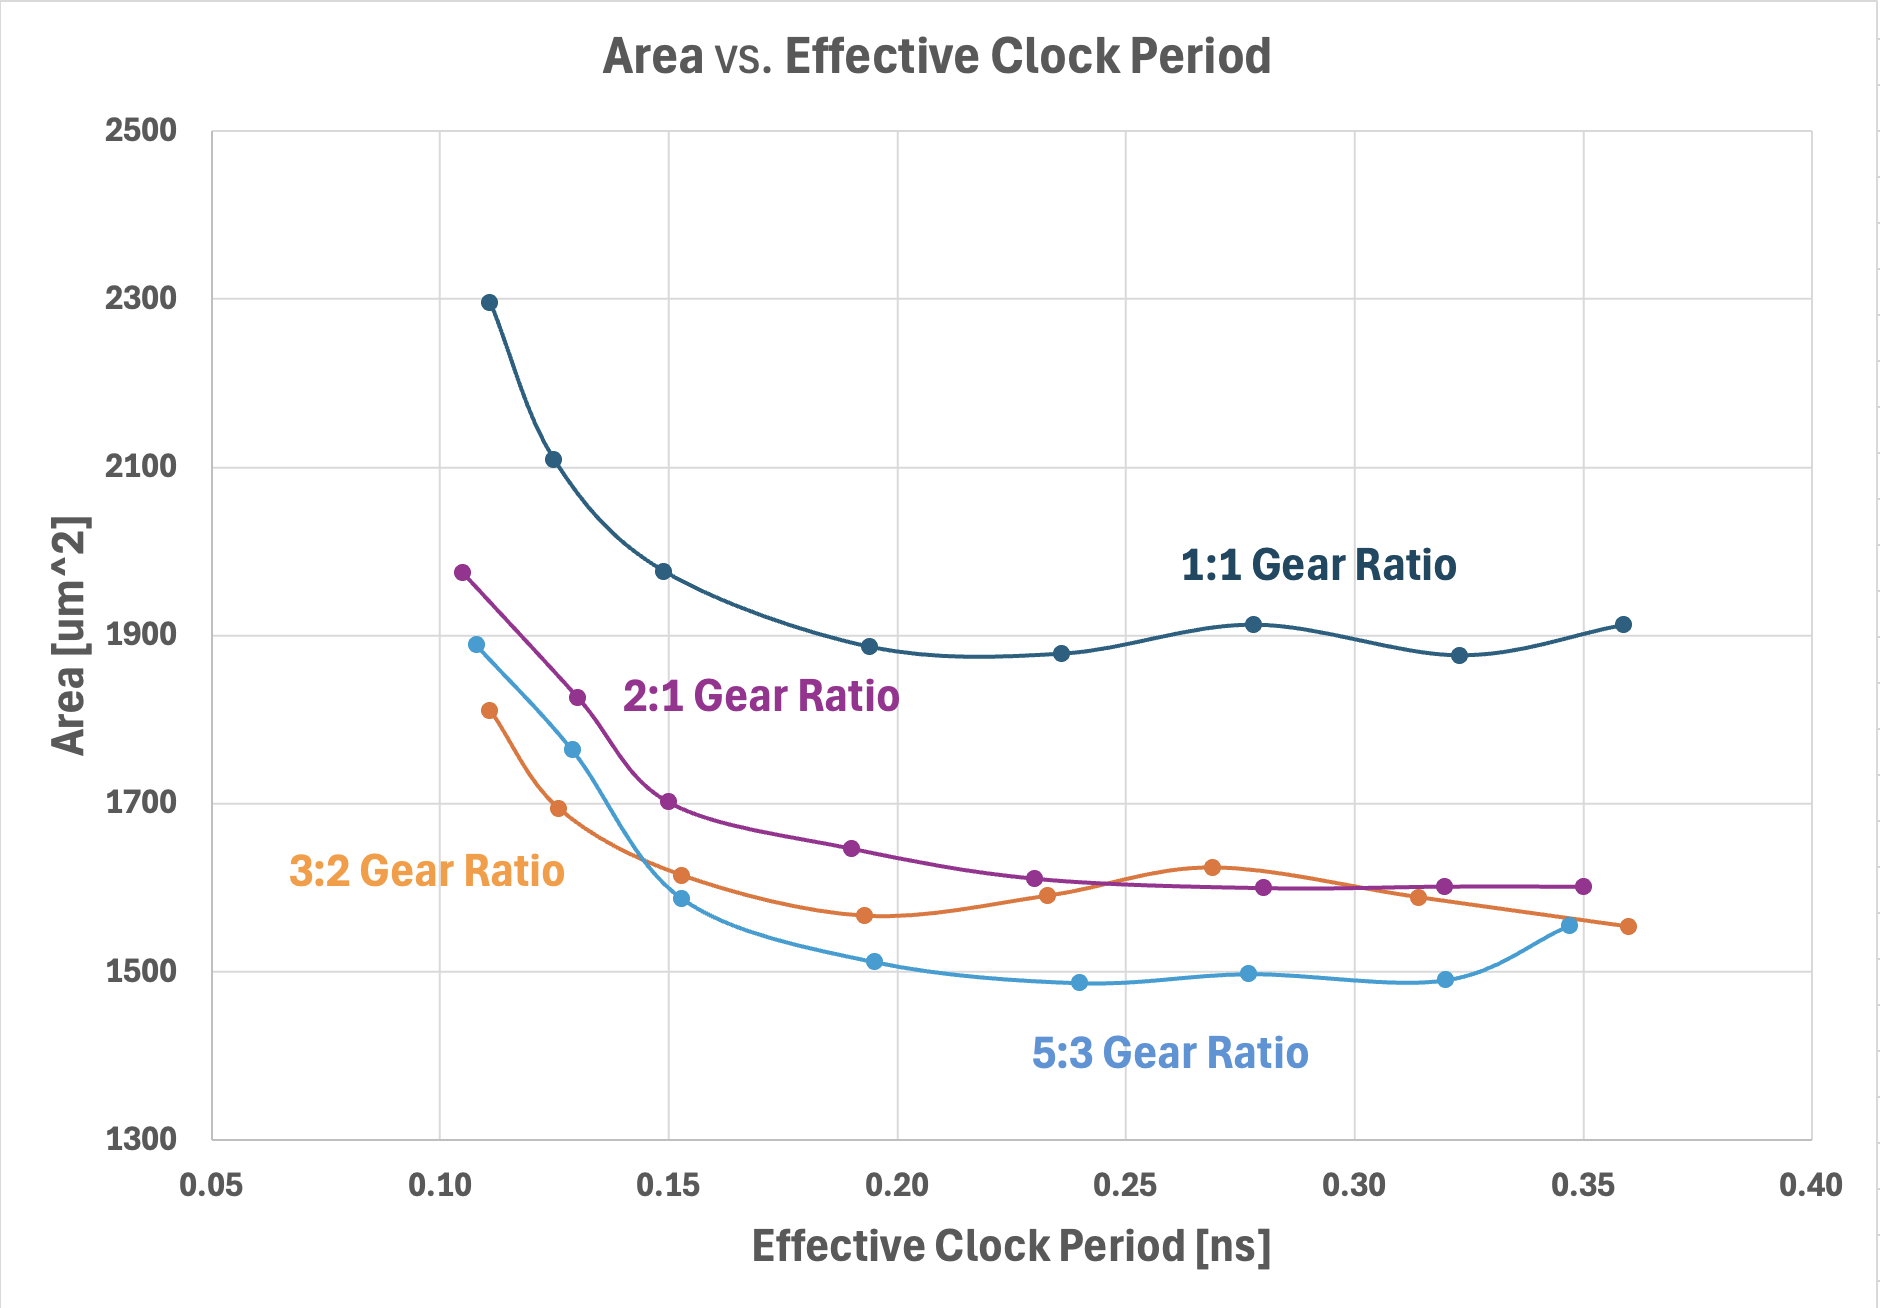
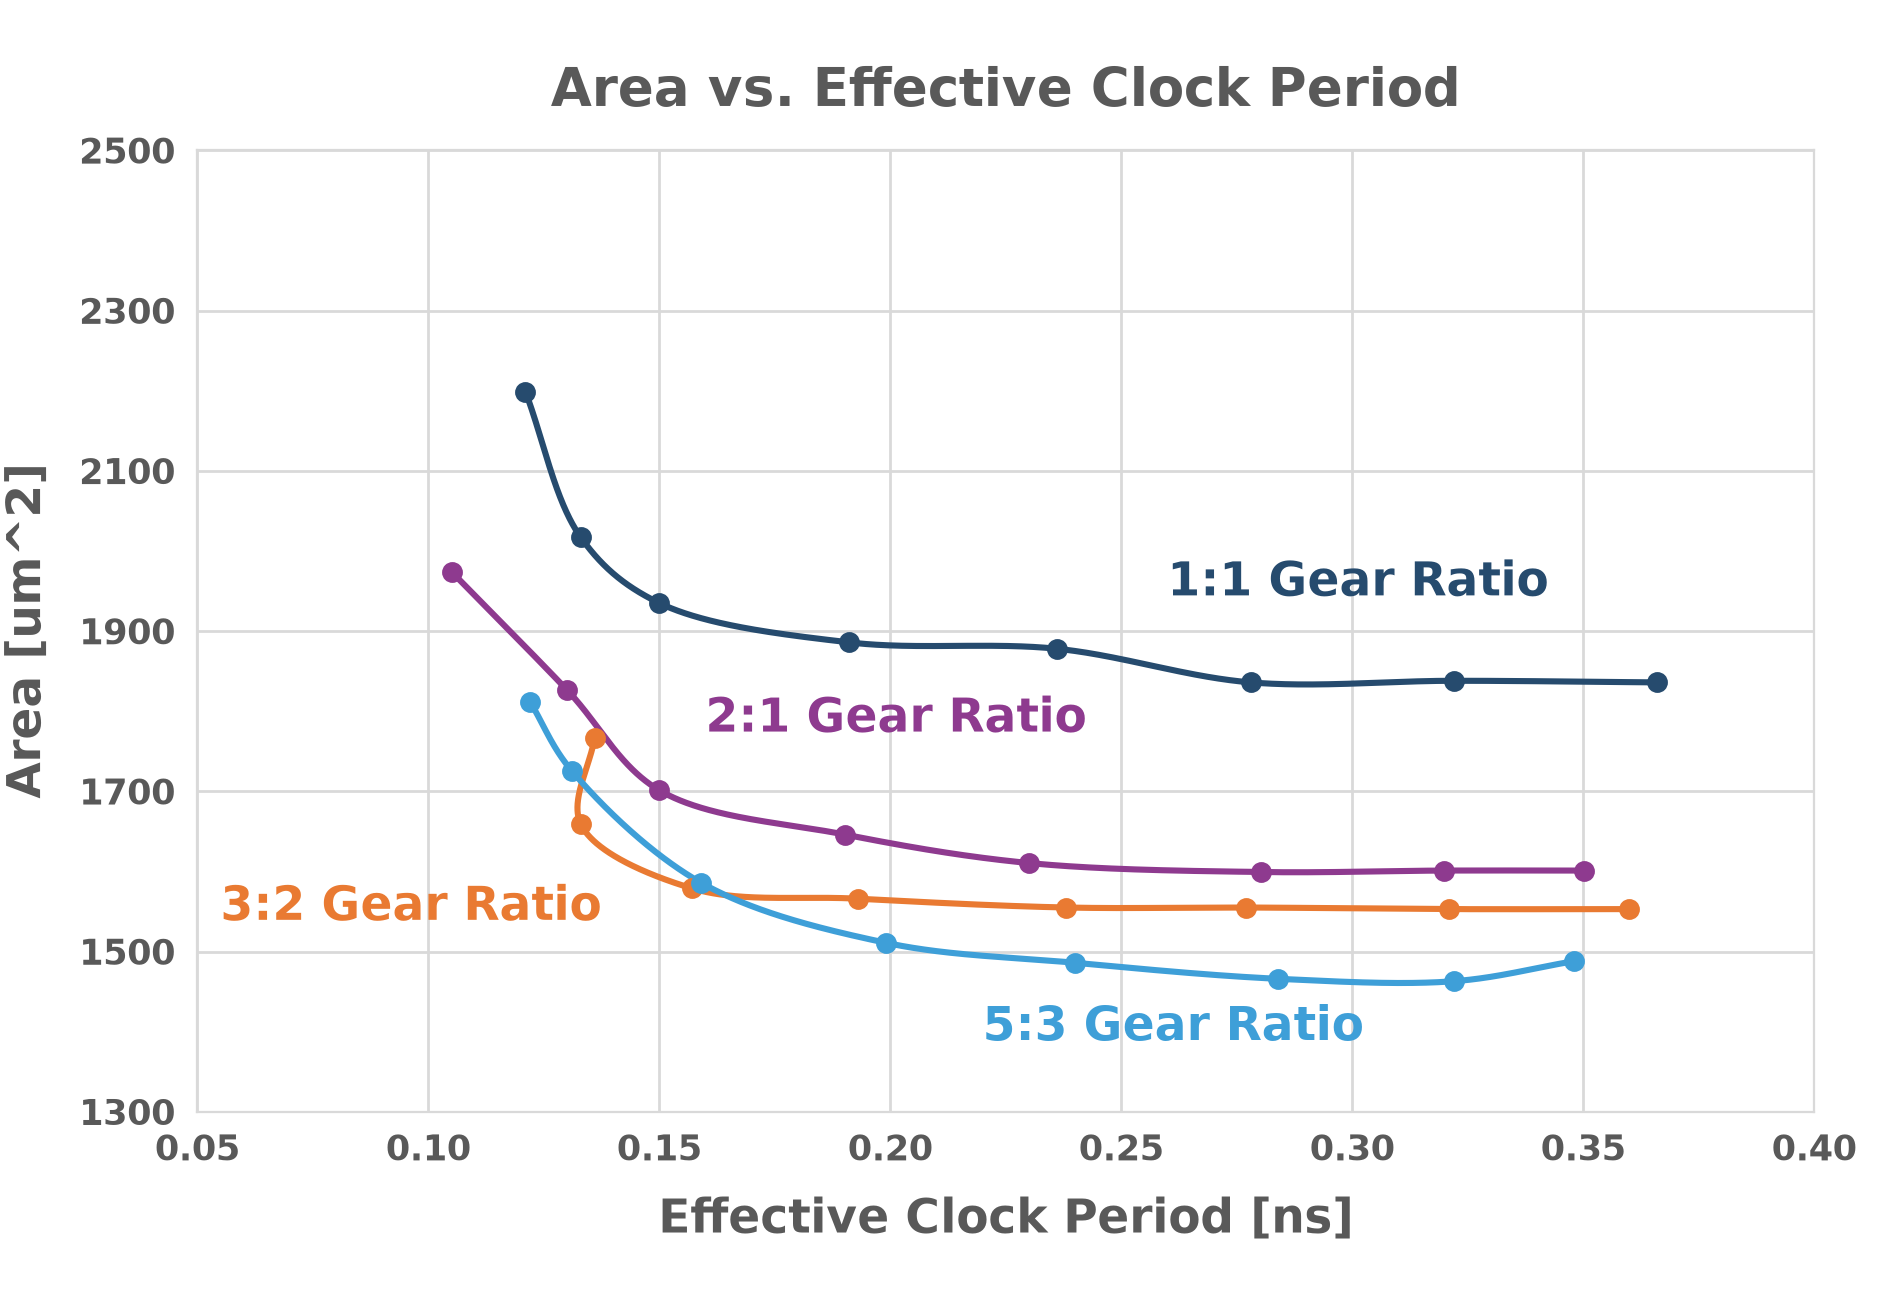
Align with final submission

diff --git a/evaluation/README.md b/evaluation/README.md
@@ -129,56 +129,56 @@ These extend the paper's Fig. 19 with the 2:1 GR series added, generated from
 
 | Metric | 0.10 | 0.12 | 0.15 | 0.20 | 0.25 | 0.30 | 0.35 | 0.40 |
 |---|---:|---:|---:|---:|---:|---:|---:|---:|
-| #Insts | 59472 | 46995 | 44790 | 43672 | 43215 | 43045 | 42815 | 42685 |
-| Wirelength (μm) | 91637 | 83180 | 81885 | 72199 | 69993 | 66639 | 65531 | 65480 |
-| Total Power (mW) | 29.5 | 23.0 | 18.0 | 13.0 | 10.4 | 8.7 | 7.5 | 6.7 |
-| Worst Negative Slack (ns) | -0.011 | -0.005 | 0.001 | 0.006 | 0.014 | 0.022 | 0.027 | 0.041 |
-| Effective CLKP (ns) | 0.111 | 0.125 | 0.149 | 0.194 | 0.236 | 0.278 | 0.323 | 0.359 |
-| Area (μm²) | 2296 | 2108 | 1976 | 1886 | 1878 | 1912 | 1876 | 1912 |
+| #Insts | 60255 | 47718 | 44714 | 43774 | 43215 | 42965 | 42850 | 42700 |
+| Wirelength (μm) | 92560 | 87659 | 82759 | 73234 | 69993 | 70875 | 68578 | 69116 |
+| Total Power (mW) | 29.7 | 24.6 | 18.2 | 13.0 | 10.3 | 8.9 | 7.6 | 6.7 |
+| Worst Negative Slack (ns) | -0.021 | -0.013 | 0.000 | 0.009 | 0.014 | 0.022 | 0.028 | 0.034 |
+| Effective CLKP (ns) | 0.121 | 0.133 | 0.150 | 0.191 | 0.236 | 0.278 | 0.322 | 0.366 |
+| Area (μm²) | 2199 | 2017 | 1935 | 1886 | 1878 | 1836 | 1838 | 1836 |
 
 ### 3:2 GR — 0-offset Only
 
 | Metric | 0.10 | 0.12 | 0.15 | 0.20 | 0.25 | 0.30 | 0.35 | 0.40 |
 |---|---:|---:|---:|---:|---:|---:|---:|---:|
-| #Insts | 57919 | 54403 | 52951 | 47918 | 46307 | 45677 | 45319 | 45253 |
-| Wirelength (μm) | 73759 | 71986 | 71602 | 72681 | 65940 | 63185 | 63707 | 62488 |
-| Total Power (mW) | 28.4 | 23.3 | 18.4 | 13.7 | 10.8 | 9.0 | 7.7 | 6.8 |
-| Worst Negative Slack (ns) | -0.008 | -0.004 | -0.001 | 0.001 | 0.004 | 0.014 | 0.019 | 0.030 |
-| Effective CLKP (ns) | 0.108 | 0.124 | 0.151 | 0.199 | 0.246 | 0.286 | 0.331 | 0.370 |
-| Area (μm²) | 1898 | 1826 | 1777 | 1726 | 1680 | 1703 | 1659 | 1690 |
+| #Insts | 57889 | 54403 | 52951 | 47918 | 46307 | 45750 | 45319 | 45376 |
+| Wirelength (μm) | 74528 | 71986 | 71602 | 72681 | 65940 | 64729 | 63707 | 64154 |
+| Total Power (mW) | 28.3 | 23.3 | 18.4 | 13.7 | 10.8 | 9.1 | 7.7 | 6.9 |
+| Worst Negative Slack (ns) | -0.006 | -0.004 | -0.001 | 0.001 | 0.004 | 0.014 | 0.019 | 0.031 |
+| Effective CLKP (ns) | 0.106 | 0.124 | 0.151 | 0.199 | 0.246 | 0.286 | 0.331 | 0.369 |
+| Area (μm²) | 1860 | 1826 | 1777 | 1726 | 1680 | 1669 | 1659 | 1656 |
 
 ### 3:2 GR — Mixed-offset
 
 | Metric | 0.10 | 0.12 | 0.15 | 0.20 | 0.25 | 0.30 | 0.35 | 0.40 |
 |---|---:|---:|---:|---:|---:|---:|---:|---:|
-| #Insts | 57429 | 44080 | 42490 | 41543 | 41216 | 41144 | 41112 | 41087 |
-| Wirelength (μm) | 73338 | 77240 | 65216 | 59613 | 55371 | 54463 | 56735 | 55264 |
-| Total Power (mW) | 29.1 | 23.3 | 17.4 | 12.5 | 10.0 | 8.4 | 7.3 | 6.5 |
-| Worst Negative Slack (ns) | -0.011 | -0.006 | -0.003 | 0.007 | 0.017 | 0.031 | 0.036 | 0.040 |
-| Effective CLKP (ns) | 0.111 | 0.126 | 0.153 | 0.193 | 0.233 | 0.269 | 0.314 | 0.360 |
-| Area (μm²) | 1810 | 1694 | 1614 | 1566 | 1590 | 1624 | 1588 | 1553 |
+| #Insts | 57155 | 44195 | 42117 | 41543 | 41207 | 41103 | 41106 | 41087 |
+| Wirelength (μm) | 76773 | 79973 | 66652 | 59613 | 56396 | 55492 | 57627 | 55264 |
+| Total Power (mW) | 30.6 | 24.2 | 18.0 | 12.5 | 10.3 | 8.5 | 7.4 | 6.5 |
+| Worst Negative Slack (ns) | -0.036 | -0.013 | -0.007 | 0.007 | 0.012 | 0.023 | 0.029 | 0.040 |
+| Effective CLKP (ns) | 0.136 | 0.133 | 0.157 | 0.193 | 0.238 | 0.277 | 0.321 | 0.360 |
+| Area (μm²) | 1767 | 1659 | 1579 | 1566 | 1555 | 1555 | 1553 | 1553 |
 
 ### 5:3 GR — 0-offset Only
 
 | Metric | 0.10 | 0.12 | 0.15 | 0.20 | 0.25 | 0.30 | 0.35 | 0.40 |
 |---|---:|---:|---:|---:|---:|---:|---:|---:|
-| #Insts | 59541 | 57871 | 52984 | 47065 | 54111 | 53054 | 52554 | 52623 |
-| Wirelength (μm) | 77526 | 81707 | 69595 | 73821 | 72639 | 69966 | 69677 | 68174 |
-| Total Power (mW) | 27.2 | 23.3 | 17.5 | 13.3 | 10.8 | 9.1 | 7.8 | 6.9 |
-| Worst Negative Slack (ns) | -0.004 | -0.004 | 0.001 | 0.002 | 0.008 | 0.014 | 0.023 | 0.033 |
-| Effective CLKP (ns) | 0.104 | 0.124 | 0.149 | 0.198 | 0.242 | 0.286 | 0.327 | 0.367 |
-| Area (μm²) | 1962 | 1836 | 1742 | 1726 | 1802 | 1816 | 1789 | 1802 |
+| #Insts | 59183 | 57455 | 52756 | 47062 | 54266 | 53125 | 52780 | 52663 |
+| Wirelength (μm) | 77686 | 80350 | 68864 | 73755 | 72539 | 70100 | 70454 | 68210 |
+| Total Power (mW) | 27.5 | 23.7 | 17.1 | 13.4 | 10.7 | 9.1 | 7.9 | 7.1 |
+| Worst Negative Slack (ns) | -0.003 | -0.004 | 0.002 | 0.003 | 0.008 | 0.014 | 0.017 | 0.036 |
+| Effective CLKP (ns) | 0.103 | 0.124 | 0.148 | 0.198 | 0.242 | 0.286 | 0.333 | 0.364 |
+| Area (μm²) | 2003 | 1912 | 1779 | 1726 | 1927 | 1900 | 1864 | 1886 |
 
 ### 5:3 GR — Mixed-offset
 
 | Metric | 0.10 | 0.12 | 0.15 | 0.20 | 0.25 | 0.30 | 0.35 | 0.40 |
 |---|---:|---:|---:|---:|---:|---:|---:|---:|
-| #Insts | 54311 | 50951 | 41213 | 39900 | 39594 | 38980 | 38808 | 38752 |
-| Wirelength (μm) | 72570 | 69274 | 71586 | 66768 | 63838 | 56642 | 54316 | 55189 |
-| Total Power (mW) | 28.0 | 22.4 | 17.5 | 12.9 | 10.1 | 8.4 | 7.2 | 6.3 |
-| Worst Negative Slack (ns) | -0.008 | -0.009 | -0.003 | 0.005 | 0.010 | 0.023 | 0.030 | 0.053 |
-| Effective CLKP (ns) | 0.108 | 0.129 | 0.153 | 0.195 | 0.240 | 0.277 | 0.320 | 0.347 |
-| Area (μm²) | 1888 | 1763 | 1586 | 1511 | 1486 | 1497 | 1490 | 1555 |
+| #Insts | 54104 | 50761 | 41131 | 39900 | 39594 | 38890 | 38803 | 38731 |
+| Wirelength (μm) | 72021 | 68720 | 71780 | 66803 | 64239 | 57964 | 55328 | 55335 |
+| Total Power (mW) | 28.5 | 22.3 | 17.5 | 12.9 | 10.5 | 8.7 | 7.4 | 6.6 |
+| Worst Negative Slack (ns) | -0.022 | -0.011 | -0.009 | 0.001 | 0.010 | 0.016 | 0.028 | 0.052 |
+| Effective CLKP (ns) | 0.122 | 0.131 | 0.159 | 0.199 | 0.240 | 0.284 | 0.322 | 0.348 |
+| Area (μm²) | 1812 | 1726 | 1586 | 1511 | 1486 | 1466 | 1463 | 1488 |
 
 ### 2:1 GR
 
@@ -194,27 +194,33 @@ These extend the paper's Fig. 19 with the 2:1 GR series added, generated from
 ## Evaluation Method & Examples
 For 1:1 GR, 3:2 GR and 5:3 GR (0-offset and mixed-offset), each target clock period (TCP)
 has five P&R runs (TCP, TCP ±0.1 ps, TCP ±0.2 ps) at every utilization of a sweep.
-For each of these TCPs, Table IX reports the per-metric median of the five runs at one
-reported utilization. Per-run data: `results/table_ix_runs/`.
+At each utilization, runs that fail to route or have #DRV > 300 are discarded. Table IX
+uses the highest utilization at which at least one run remains and reports the per-metric
+median of the remaining runs, rounded half-up to the precision shown.
+Per-run data: `results/table_ix_runs/`.
 
-| Configuration | Median #DRV at reported utilization (range over TCPs) |
-|---|---:|
-| 1:1 GR | 209–307 |
-| 3:2 GR — 0-offset Only | 0 |
-| 3:2 GR — Mixed-offset | 0 |
-| 5:3 GR — 0-offset Only | 271–427 |
-| 5:3 GR — Mixed-offset | 229–348 |
+Utilization used at each TCP (number of remaining runs):
 
-### Example: 1:1 GR at 0.10 ns (reported utilization 0.91)
+| Configuration | 0.10 | 0.12 | 0.15 | 0.20 | 0.25 | 0.30 | 0.35 | 0.40 |
+|---|---:|---:|---:|---:|---:|---:|---:|---:|
+| 1:1 GR | 0.95 (2) | 0.93 (4) | 0.95 (3) | 0.95 (1) | 0.95 (3) | 0.97 (1) | 0.97 (1) | 0.97 (1) |
+| 3:2 GR — 0-offset Only | 0.95 (5) | 0.95 (5) | 0.95 (5) | 0.95 (5) | 0.95 (5) | 0.95 (5) | 0.95 (5) | 0.95 (5) |
+| 3:2 GR — Mixed-offset | 0.95 (5) | 0.95 (5) | 0.95 (5) | 0.95 (5) | 0.95 (5) | 0.95 (5) | 0.95 (5) | 0.95 (5) |
+| 5:3 GR — 0-offset Only | 0.91 (3) | 0.91 (1) | 0.91 (5) | 0.95 (4) | 0.87 (2) | 0.87 (4) | 0.89 (2) | 0.89 (3) |
+| 5:3 GR — Mixed-offset | 0.97 (4) | 0.97 (2) | 0.97 (1) | 0.97 (1) | 0.97 (1) | 0.97 (1) | 0.97 (1) | 0.95 (2) |
+
+### Example: 1:1 GR at 0.10 ns
+At utilization 0.97, all five runs have #DRV > 300. At 0.95, the runs at 0.1000 ns and
+0.1001 ns remain; Table IX reports their per-metric median.
 
 | Run TCP (ns) | #Insts | Wirelength (μm) | Total Power (mW) | Worst Negative Slack (ns) | Effective CLKP (ns) | Area (μm²) | #DRV |
 |---|---:|---:|---:|---:|---:|---:|---:|
-| 0.0998 | 59024 | 92435 | 30.5 | -0.007 | 0.107 | 2296 | 243 |
-| 0.0999 | 58862 | 90957 | 29.4 | -0.013 | 0.113 | 2296 | 179 |
-| 0.1000 | 61403 | 93106 | 30.1 | -0.011 | 0.111 | 2296 | 324 |
-| 0.1001 | 59472 | 91243 | 29.4 | -0.011 | 0.111 | 2296 | 153 |
-| 0.1002 | 59679 | 91637 | 29.5 | -0.006 | 0.106 | 2296 | 210 |
-| **Table IX** | 59472 | 91637 | 29.5 | -0.011 | 0.111 | 2296 | — |
+| 0.0998 | 61823 | 95402 | 31.1 | -0.016 | 0.116 | 2199 | 373 |
+| 0.0999 | 61490 | 96497 | 31.5 | -0.014 | 0.114 | 2199 | 389 |
+| 0.1000 | 60734 | 94318 | 29.7 | -0.036 | 0.136 | 2199 | 274 |
+| 0.1001 | 59776 | 90801 | 29.7 | -0.006 | 0.106 | 2199 | 289 |
+| 0.1002 | 61857 | 100694 | 30.5 | -0.025 | 0.125 | 2199 | 339 |
+| **Table IX** | 60255 | 92560 | 29.7 | -0.021 | 0.121 | 2199 | — |
 
 ## Fixed Netlist/Independent Netlist Ablation Study
 A **fixed netlist** is synthesized once under one GR library, then reused for
